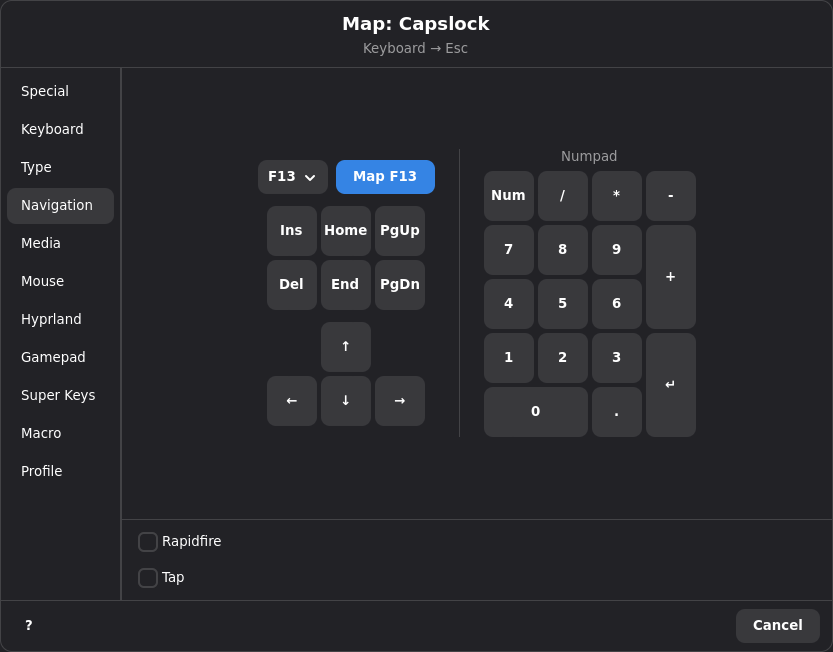
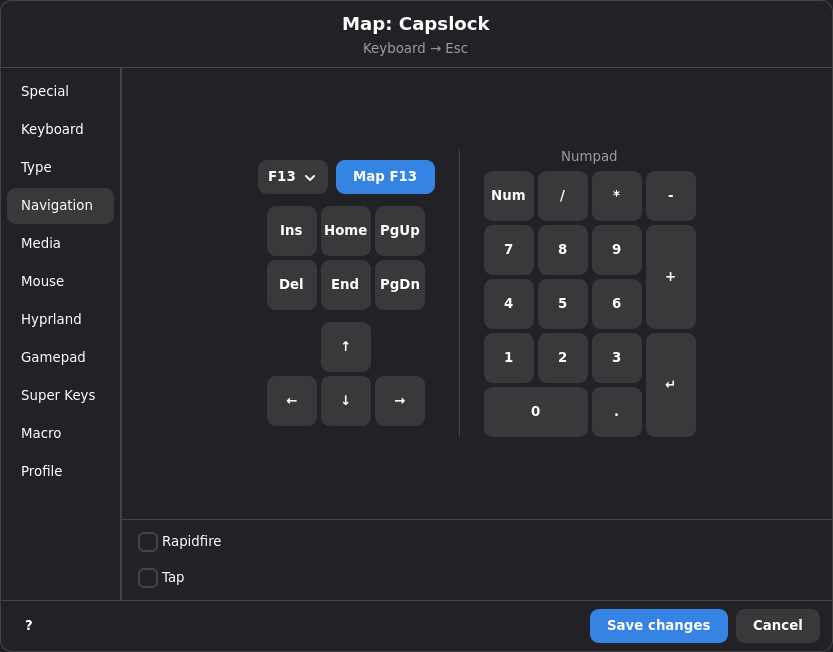
Fix docshot compositor state and refresh screenshots

Changed region(s): [[0.6867, 0.9202, 0.8739, 1.0]]

diff --git a/nix/docshots/gui_driver.py b/nix/docshots/gui_driver.py
@@ -54,6 +54,7 @@ from keymasq.gui.widgets.save_macro_dialog import SaveMacroDialog
 from keymasq.gui.widgets.superkey_editor.dialog import SuperkeyDialog
 from keymasq.gui.window import (
     compositor,
+    connection,
     device_tabs,
     macro_recording,
     profiles,
@@ -789,6 +790,7 @@ class DocshotRunner:
         self.failed = False
         self._runtime_overrides_installed = False
         self._orig_apply_compositor_state = None
+        self._orig_on_status_response = None
         self._orig_update_macro_recording_state = None
         self._orig_apply_profile_runtime_state = None
         self._welcome_tabs_isolated = False
@@ -936,14 +938,28 @@ class DocshotRunner:
         if self._runtime_overrides_installed:
             return
         apply_compositor_state = compositor._apply_compositor_state
+        on_status_response = connection._on_status_response
         update_macro_recording_state = macro_recording._update_macro_recording_state
         apply_profile_runtime_state = profiles._apply_profile_runtime_state
         self._orig_apply_compositor_state = apply_compositor_state
+        self._orig_on_status_response = on_status_response
         self._orig_update_macro_recording_state = update_macro_recording_state
         self._orig_apply_profile_runtime_state = apply_profile_runtime_state
 
         def force_compositor_state(window: MainWindow, _state: Json) -> None:
             apply_compositor_state(window, self._docshot_compositor_state())
+
+        def force_status_response(window: MainWindow, data: Json | None, query_id: int) -> bool:
+            # Status polling also updates compositor state independently of the startup probe.
+            if isinstance(data, dict) and data.get("status") == "ok":
+                state = self._docshot_compositor_state()
+                data = {
+                    **data,
+                    **DEFAULT_COMPOSITOR_STATUS,
+                    "compositor_details": state["support_details"],
+                    "compositor_capabilities": state["capabilities"],
+                }
+            return on_status_response(window, data, query_id)
 
         def force_macro_recording_state(window: MainWindow, _state: Json) -> None:
             update_macro_recording_state(window, self._docshot_macro_recording_state())
@@ -952,6 +968,7 @@ class DocshotRunner:
             apply_profile_runtime_state(window, self._docshot_profile_runtime_state())
 
         compositor._apply_compositor_state = force_compositor_state
+        connection._on_status_response = force_status_response
         macro_recording._update_macro_recording_state = force_macro_recording_state
         profiles._apply_profile_runtime_state = force_profile_runtime_state
         self._runtime_overrides_installed = True
@@ -961,11 +978,14 @@ class DocshotRunner:
             return
         if self._orig_apply_compositor_state is not None:
             compositor._apply_compositor_state = self._orig_apply_compositor_state
+        if self._orig_on_status_response is not None:
+            connection._on_status_response = self._orig_on_status_response
         if self._orig_update_macro_recording_state is not None:
             macro_recording._update_macro_recording_state = self._orig_update_macro_recording_state
         if self._orig_apply_profile_runtime_state is not None:
             profiles._apply_profile_runtime_state = self._orig_apply_profile_runtime_state
         self._orig_apply_compositor_state = None
+        self._orig_on_status_response = None
         self._orig_update_macro_recording_state = None
         self._orig_apply_profile_runtime_state = None
         self._runtime_overrides_installed = False
